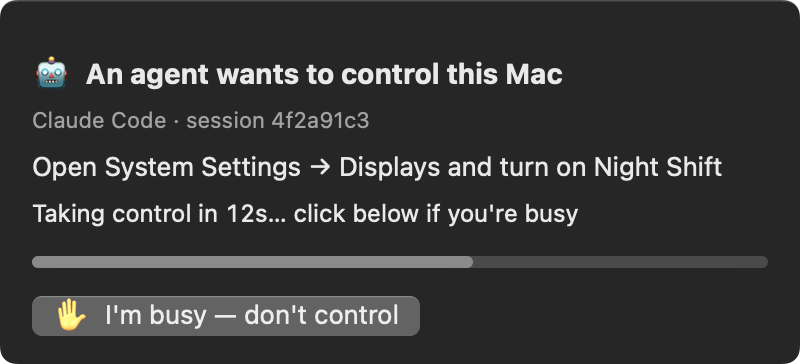
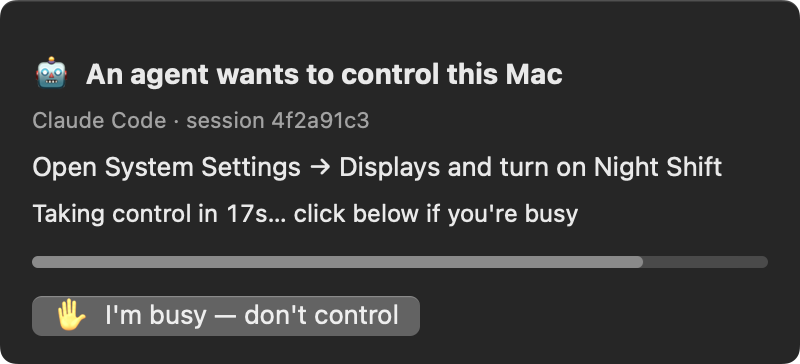
overlay: TALK stdin verb, --width/--text-scale for small screens, wrap long labels; capture-panels.sh
Claude-Session: https://claude.ai/code/session_01KZeAQRqiBRQ8FKAZaMM35r

Changed region(s): [[0.5938, 0.6951, 0.8125, 0.7555], [0.2812, 0.5742, 0.3125, 0.6044]]

diff --git a/overlay/main.swift b/overlay/main.swift
@@ -5,6 +5,7 @@
 // it grabbed focus and sat over the middle of the screen, covering what was being driven).
 //
 //   agent-overlay-mac --who "<session · host>" --desc "<what it is doing>" [--consent 15] [--go 1]
+//                     [--width 400] [--text-scale 1]   panel width (pt) and text size multiplier
 //
 // Phase 1 (if --consent > 0): consent countdown — "Taking control in Ns…" with a shrinking
 //   bar and an "I'm busy — don't control" button. Deny → prints DENY, shows "Denied", exits 1.
@@ -16,6 +17,7 @@
 //   stdout:  GRANT <ts> | DENY <ts> | STOP <ts> | RESUME <ts> | CANCEL <ts> | MSG <text> | FOCUS <ts>
 //   stdin:   DOING <text>   update the status line
 //            PAUSED | RESUMED   reflect a pause/resume that came from elsewhere
+//            TALK [text]    open the Talk box (paused), optionally prefilled; for demos and tests
 //            HIDE           close and exit 0
 import AppKit
 
@@ -30,6 +32,8 @@ let who = arg("who", "an agent")
 var desc = arg("desc", "working")
 let consentSecs = Double(arg("consent", "0")) ?? 0
 let showGo = arg("go", "0") == "1"   // "Go to session" button, only when the watcher can focus the agent
+let W = CGFloat(Double(arg("width", "400")) ?? 400)          // panel width in points
+let TS = CGFloat(Double(arg("text-scale", "1")) ?? 1)      // text size multiplier (accessibility, screenshots for small screens)
 func now() -> String { String(Int(Date().timeIntervalSince1970 * 1000)) }
 func emit(_ s: String) { print(s); fflush(stdout) }
 
@@ -62,7 +66,7 @@ final class Overlay: NSObject, NSTextFieldDelegate {
     var timer: Timer?
 
     override init() {
-        panel = Panel(contentRect: NSRect(x: 0, y: 0, width: 400, height: 10),
+        panel = Panel(contentRect: NSRect(x: 0, y: 0, width: W, height: 10),
                       styleMask: [.nonactivatingPanel, .titled, .fullSizeContentView, .utilityWindow],
                       backing: .buffered, defer: false)
         super.init()
@@ -93,23 +97,24 @@ final class Overlay: NSObject, NSTextFieldDelegate {
             stack.trailingAnchor.constraint(equalTo: fx.trailingAnchor),
             stack.topAnchor.constraint(equalTo: fx.topAnchor),
             stack.bottomAnchor.constraint(equalTo: fx.bottomAnchor),
-            fx.widthAnchor.constraint(equalToConstant: 400),
+            fx.widthAnchor.constraint(equalToConstant: W),
         ])
 
-        title.font = .boldSystemFont(ofSize: 14)
-        whoLabel.font = .systemFont(ofSize: 11)
+        title.font = .boldSystemFont(ofSize: 14 * TS)
+        for l in [title, countdown] { l.lineBreakMode = .byWordWrapping; l.maximumNumberOfLines = 0; l.preferredMaxLayoutWidth = W - 32 }
+        whoLabel.font = .systemFont(ofSize: 11 * TS)
         whoLabel.textColor = .secondaryLabelColor
-        descLabel.font = .systemFont(ofSize: 13)
-        descLabel.preferredMaxLayoutWidth = 368
-        countdown.font = .monospacedDigitSystemFont(ofSize: 12, weight: .regular)
+        descLabel.font = .systemFont(ofSize: 13 * TS)
+        descLabel.preferredMaxLayoutWidth = W - 32
+        countdown.font = .monospacedDigitSystemFont(ofSize: 12 * TS, weight: .regular)
         bar.isIndeterminate = false
         bar.minValue = 0; bar.maxValue = 1000
-        bar.widthAnchor.constraint(equalToConstant: 368).isActive = true
+        bar.widthAnchor.constraint(equalToConstant: W - 32).isActive = true
 
         for (b, sel) in [(pauseBtn, #selector(onPause)), (talkBtn, #selector(onTalk)),
                          (cancelBtn, #selector(onCancel)), (goBtn, #selector(onGo)), (minBtn, #selector(onMin)),
                          (denyBtn, #selector(onDeny))] {
-            b.target = self; b.action = sel; b.bezelStyle = .rounded
+            b.target = self; b.action = sel; b.bezelStyle = .rounded; b.font = .systemFont(ofSize: 13 * TS)
         }
         pauseBtn.keyEquivalent = ""
         pauseBtn.bezelColor = .controlAccentColor
@@ -120,9 +125,11 @@ final class Overlay: NSObject, NSTextFieldDelegate {
 
         talkField.placeholderString = "Tell the agent what to do"
         talkField.delegate = self
-        talkField.widthAnchor.constraint(equalToConstant: 290).isActive = true
+        talkField.widthAnchor.constraint(equalToConstant: W - 110 * TS).isActive = true
         let send = NSButton(title: "Send", target: self, action: #selector(onSend))
         send.bezelStyle = .rounded
+        send.font = .systemFont(ofSize: 13 * TS)
+        talkField.font = .systemFont(ofSize: 13 * TS)
         talkRow.orientation = .horizontal
         talkRow.addArrangedSubview(talkField)
         talkRow.addArrangedSubview(send)
@@ -139,7 +146,7 @@ final class Overlay: NSObject, NSTextFieldDelegate {
         stack.arrangedSubviews.forEach { stack.removeArrangedSubview($0); $0.removeFromSuperview() }
         views.forEach { stack.addArrangedSubview($0) }
         panel.contentView?.layoutSubtreeIfNeeded()
-        let size = panel.contentView?.fittingSize ?? NSSize(width: 400, height: 160)
+        let size = panel.contentView?.fittingSize ?? NSSize(width: W, height: 160)
         var f = panel.frame
         let top = f.maxY
         f.size = size
@@ -252,6 +259,7 @@ final class Overlay: NSObject, NSTextFieldDelegate {
                     if s.hasPrefix("DOING ") { desc = String(s.dropFirst(6)); if self.decided && !self.paused { self.showBanner() } }
                     else if s == "PAUSED" { self.setPaused(true) }
                     else if s == "RESUMED" { self.setPaused(false) }
+                    else if s.hasPrefix("TALK") { self.paused = true; self.talkRow.isHidden = false; self.talkField.stringValue = String(s.dropFirst(5)); self.showBanner() }
                     else if s == "HIDE" { exit(0) }
                 }
             }

diff --git a/README.md b/README.md
@@ -22,13 +22,14 @@ keystrokes out of the wrong app.
 
 | Path | |
 |---|---|
-| `overlay/main.swift` | The panel. A non-activating `NSPanel` (never steals focus, floats over every Space). Speaks a line protocol: prints `GRANT` `DENY` `STOP` `RESUME` `CANCEL` `MSG <text>`, reads `DOING <text>` `PAUSED` `RESUMED` `HIDE`. |
+| `overlay/main.swift` | The panel. A non-activating `NSPanel` (never steals focus, floats over every Space). Speaks a line protocol: prints `GRANT` `DENY` `STOP` `RESUME` `CANCEL` `MSG <text>`, reads `DOING <text>` `PAUSED` `RESUMED` `TALK [text]` `HIDE`. Options: `--width <pt>` and `--text-scale <x>` for small screens. |
 | `bin/screen-claim` | What the agent runs: `start "<goal>"`, `doing`, `stop`, `status`, `stopped`, `inbox`, `resume`. |
 | `bin/watch.mjs` | Runs the panel for one claim and turns presses into state: `interrupt.json` on Pause/Cancel (plus `pkill` of peekaboo/cliclick), `inbox.jsonl` for Talk. Renews the claim's lock and keeps the Mac awake while the claim is held. |
 | `bin/agent-lock.mjs` | A per-device lock any agent can take: TTL, wait queue, interrupt flag, master switch, optionally stored on an adb device. The Mac's claim is its `mac-screen` resource. See [One lock per device](#one-lock-per-device). |
 | `hooks/screen-stop-gate.sh` | PreToolUse hook: while paused or cancelled, deny every screen-driving call. The deny reason carries the user's Talk messages, so the agent hears them on its next attempt. |
 | `hooks/screen-lock-gate.sh` | PreToolUse hook: deny screen driving unless this session holds the `mac-screen` lock. One driver at a time, never one the user can't see. |
 | `tools/type-to-pid.swift` | Send keystrokes to one process by pid, so they cannot land in whatever happens to have focus. |
+| `tools/capture-panels.sh` | Screenshots the real panel in every state, by window id (desktop size, or `320 1.3 -mobile` for phones). |
 | `PLAYBOOK.md` | The rules for the agent. |
 
 ## Install
